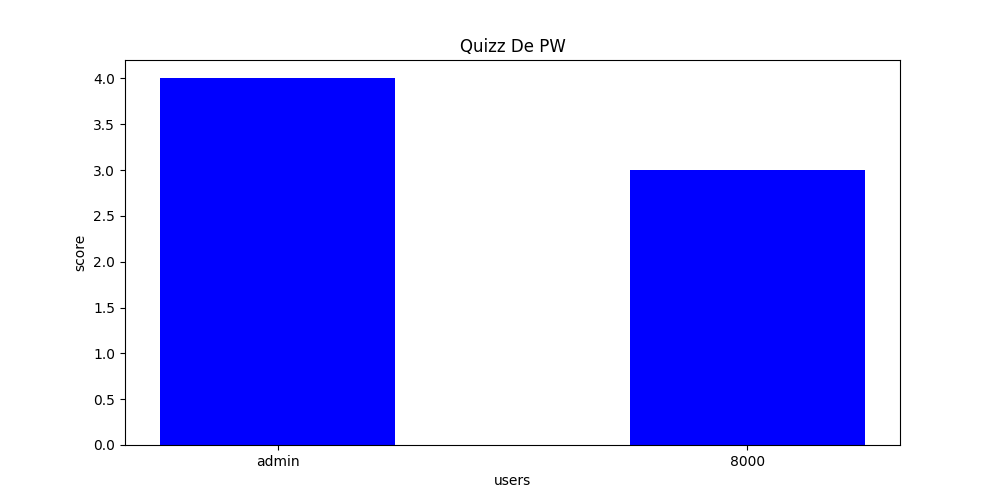
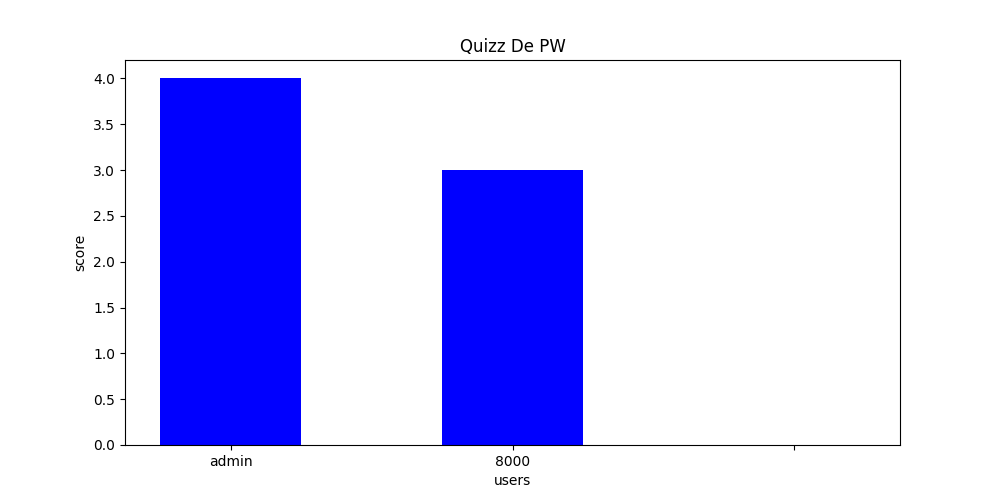
<YOUR COMMIT MESSAGE>

Changed region(s): [[0.62, 0.33, 0.868, 0.93], [0.217, 0.15, 0.403, 0.93], [0.434, 0.33, 0.589, 0.93]]

diff --git a/portfolio/views.py b/portfolio/views.py
@@ -132,7 +132,6 @@ def quizz_page_view(request):
         if request.method == 'POST':
             if form.is_valid():
                 form = form.save(commit=False)
-                form.name = user.username
                 form.save()
                 desenha_grafico_resultados(pontuacaoquizz.objects.all())
                 return HttpResponseRedirect(request.path_info)
